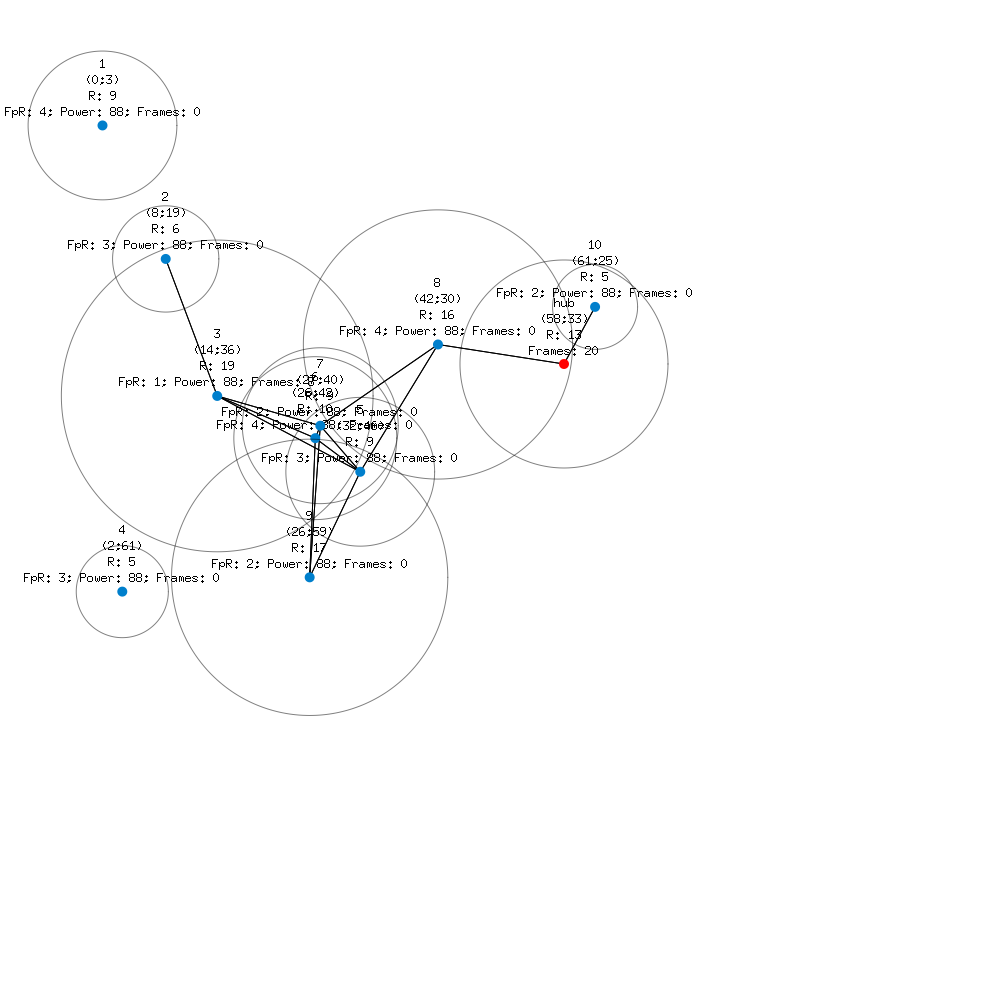
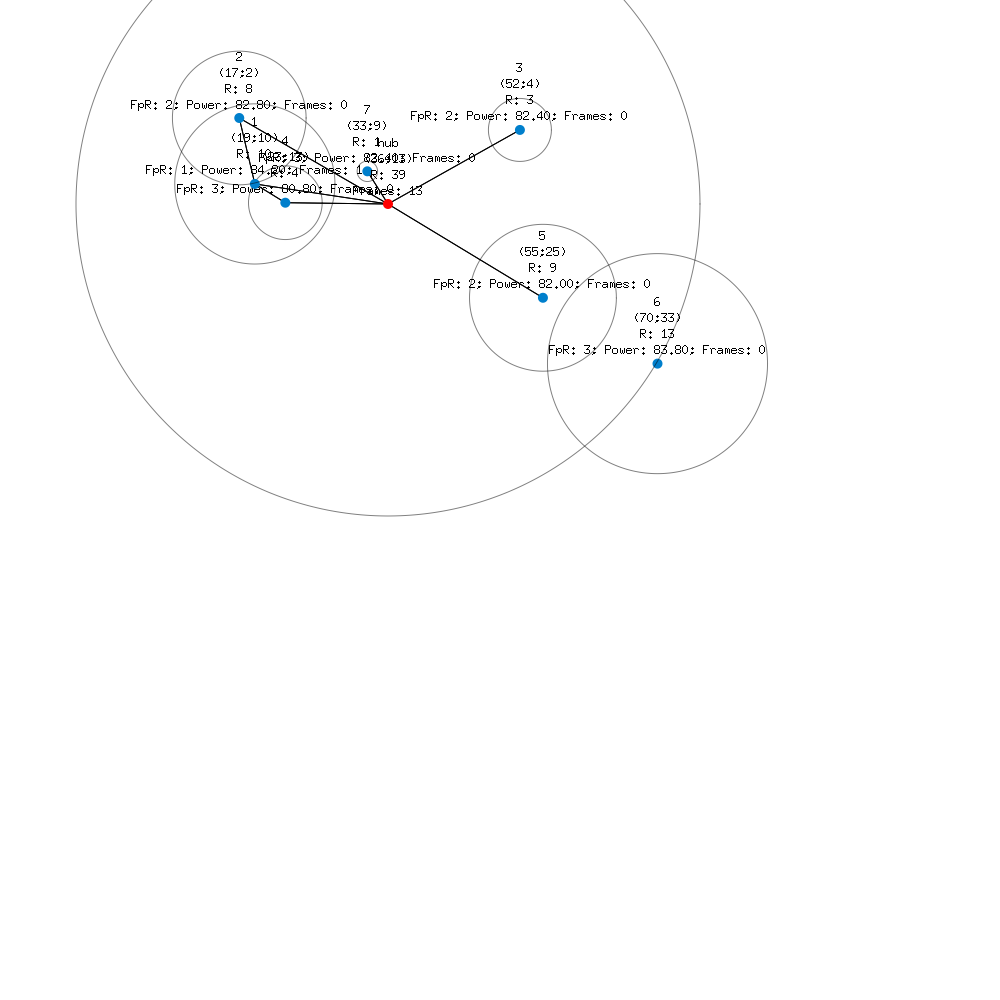
.

diff --git a/internal/network/graph.go b/internal/network/graph.go
@@ -135,7 +135,7 @@ func drawHub(dc *gg.Context, node *hub.Hub, scale, padding float64) {
 	dc.SetRGB(0, 0, 0) // Цвет текста (черный)
 
 	dc.DrawStringAnchored(node.Name, node.X*scale+padding, node.Y*scale+padding-64/2-32, 0.5, 0.5)
-	dc.DrawStringAnchored(fmt.Sprintf("(%v;%v)", int(node.X), int(node.Y)), node.X*scale+padding, node.Y*scale+padding-64/2-16, 0.5, 0.5)
+	dc.DrawStringAnchored(fmt.Sprintf("(%.0f;%.0f)", node.X, node.Y), node.X*scale+padding, node.Y*scale+padding-64/2-16, 0.5, 0.5)
 	dc.DrawStringAnchored(fmt.Sprintf("R: %v", int(node.R)), node.X*scale+padding, node.Y*scale+padding-64/2, 0.5, 0.5)
 	dc.DrawStringAnchored(fmt.Sprintf("Frames: %v", len(node.Frames)), node.X*scale+padding, node.Y*scale+padding-64/2+16, 0.5, 0.5)
 	dc.Stroke()
@@ -155,8 +155,8 @@ func drawNode(dc *gg.Context, node *node.Node, scale, padding float64) {
 	dc.SetRGB(0, 0, 0) // Цвет текста (черный)
 
 	dc.DrawStringAnchored(node.Name, node.X*scale+padding, node.Y*scale+padding-64/2-32, 0.5, 0.5)
-	dc.DrawStringAnchored(fmt.Sprintf("(%v;%v)", int(node.X), int(node.Y)), node.X*scale+padding, node.Y*scale+padding-64/2-16, 0.5, 0.5)
+	dc.DrawStringAnchored(fmt.Sprintf("(%.0f;%.0f)", node.X, node.Y), node.X*scale+padding, node.Y*scale+padding-64/2-16, 0.5, 0.5)
 	dc.DrawStringAnchored(fmt.Sprintf("R: %v", int(node.R)), node.X*scale+padding, node.Y*scale+padding-64/2, 0.5, 0.5)
-	dc.DrawStringAnchored(fmt.Sprintf("FpR: %v; Power: %v; Frames: %v", node.FpR, node.Power, len(node.Frames)), node.X*scale+padding, node.Y*scale+padding-64/2+16, 0.5, 0.5)
+	dc.DrawStringAnchored(fmt.Sprintf("FpR: %v; Power: %.2f; Frames: %v", node.FpR, node.Power, len(node.Frames)), node.X*scale+padding, node.Y*scale+padding-64/2+16, 0.5, 0.5)
 	dc.Stroke()
 }

diff --git a/internal/roundmanager.go b/internal/roundmanager.go
@@ -41,11 +41,14 @@ func (r *RoundManager) PerformRound(roundNumber int) {
 		recievers := r.G.VertexMap[&sender.Vertex]
 		for i := range recievers {
 			recievers[i] = sender.Vertex.Send(recievers[i], sender.FpR)
+			if node, ok := r.G.Nodes[recievers[i].Name]; ok { // Получатель - node
+				node.Power -= 0.2
+			}
 		}
 
 		sender.DestroyFrames(sender.FpR)
 		sender.Power--
-		sender.R = sender.R * (float64(sender.Power) / 100)
+		sender.R *= (sender.Power / 100)
 	}
 
 	r.G.PrintInfo(roundNumber)

diff --git a/internal/network/vertex/node/node.go b/internal/network/vertex/node/node.go
@@ -14,7 +14,7 @@ type Node struct {
 	FpR             int
 	FramesIdHistory map[string]int
 	MovingSpeed     float64
-	Power           byte //percent
+	Power           float64 //percent
 }
 
 func (node Node) String() string {
